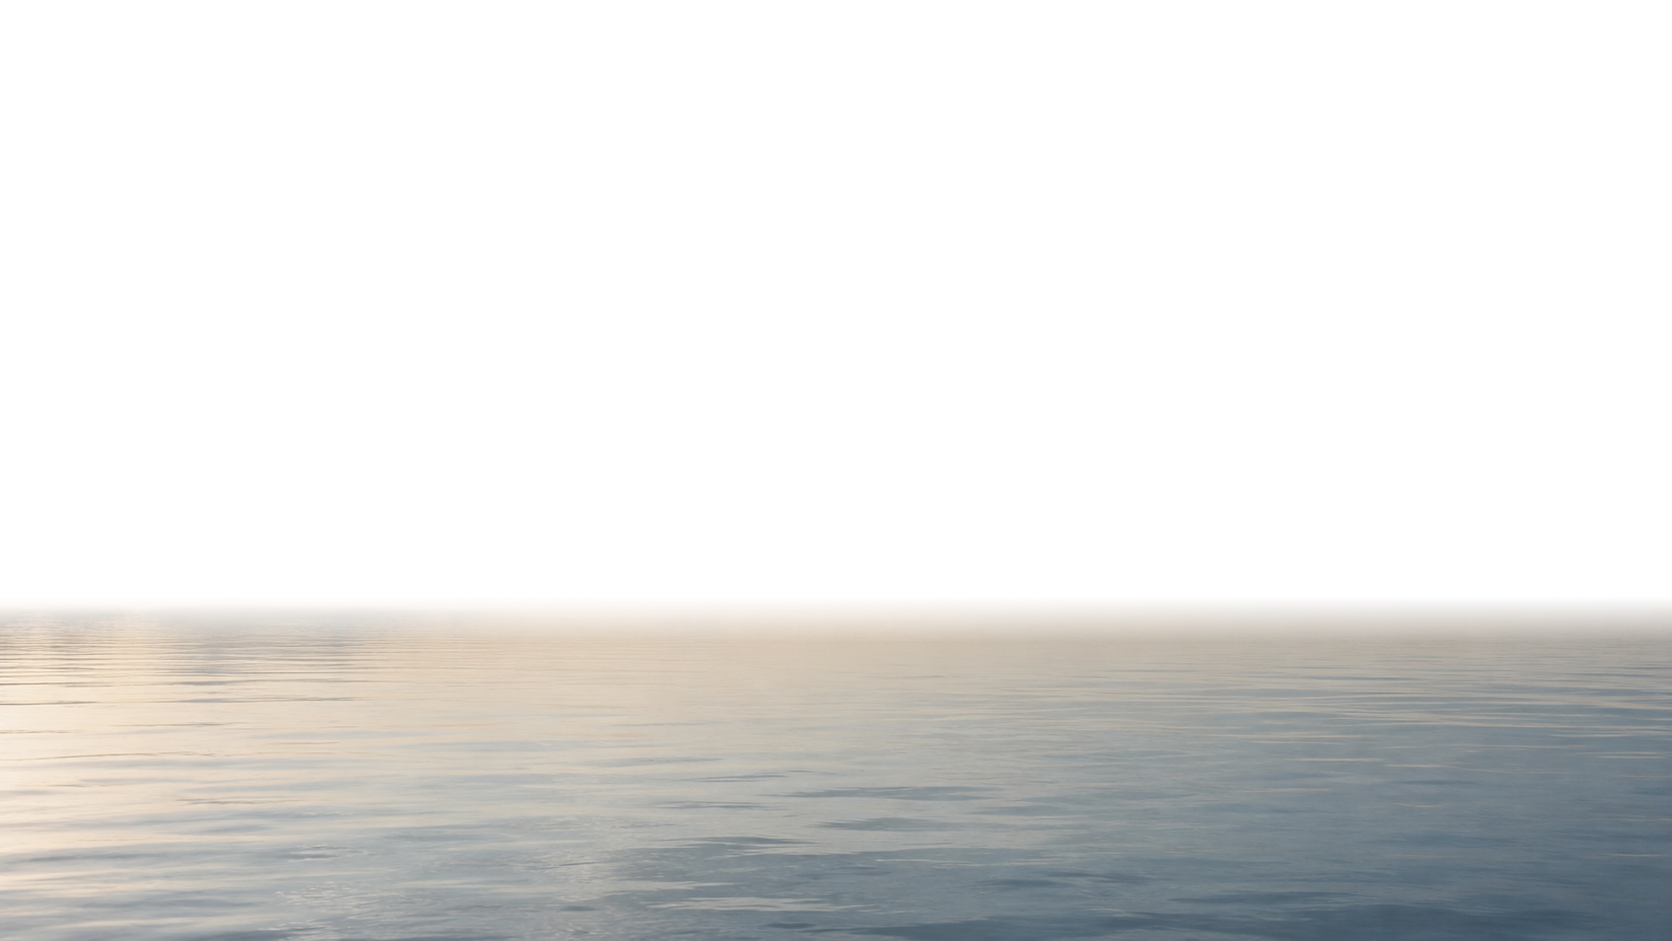
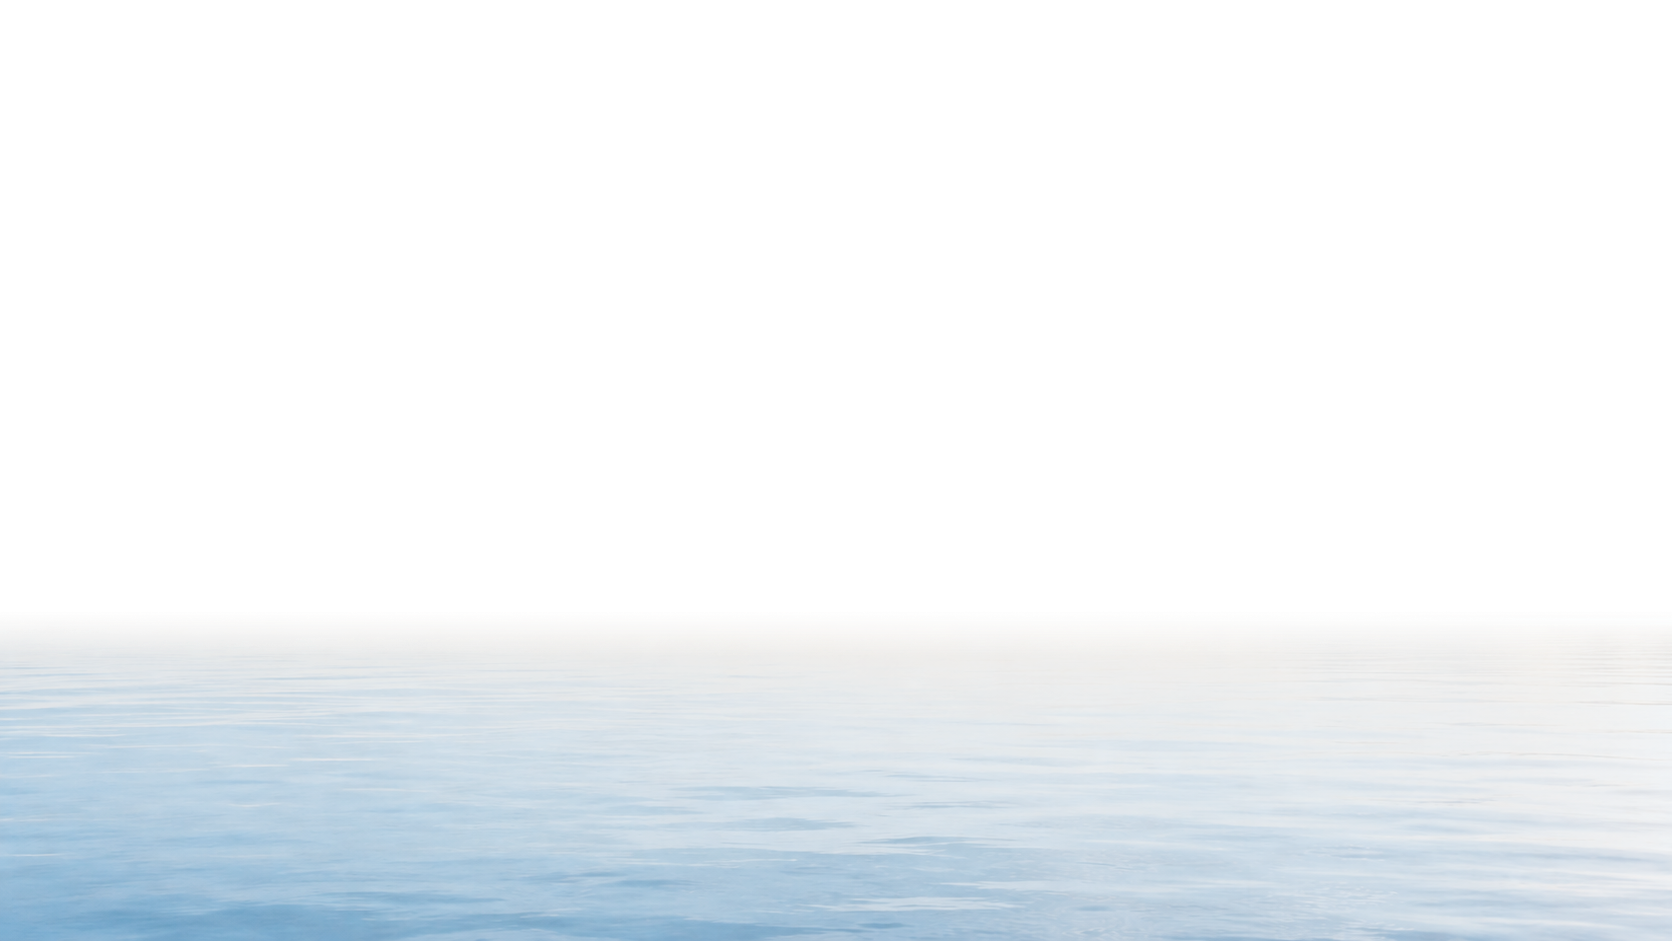
改开场海面颜色，删除开场云朵及其动画

diff --git a/public/intro/index.html b/public/intro/index.html
@@ -50,18 +50,6 @@
         ></canvas>
 
         <div
-          class="layer sea-cloud"
-          data-from-y="0"
-          data-to-y="44"
-          data-from-s="1"
-          data-to-s="1.22"
-          data-from-o="1"
-          data-to-o="0"
-          data-o-start="0.1"
-          data-o-end="0.7"
-        ></div>
-
-        <div
           class="layer sky-bg"
           data-from-y="-40"
           data-to-y="0"

diff --git a/public/intro/styles.css b/public/intro/styles.css
@@ -66,11 +66,6 @@ body {
   background: none;
 }
 
-.sea-cloud {
-  z-index: 3;
-  background-image: url("./assert/sea-cloud.png");
-}
-
 .sky-bg {
   z-index: 4;
   background-image: url("./assert/sky_bg.png");